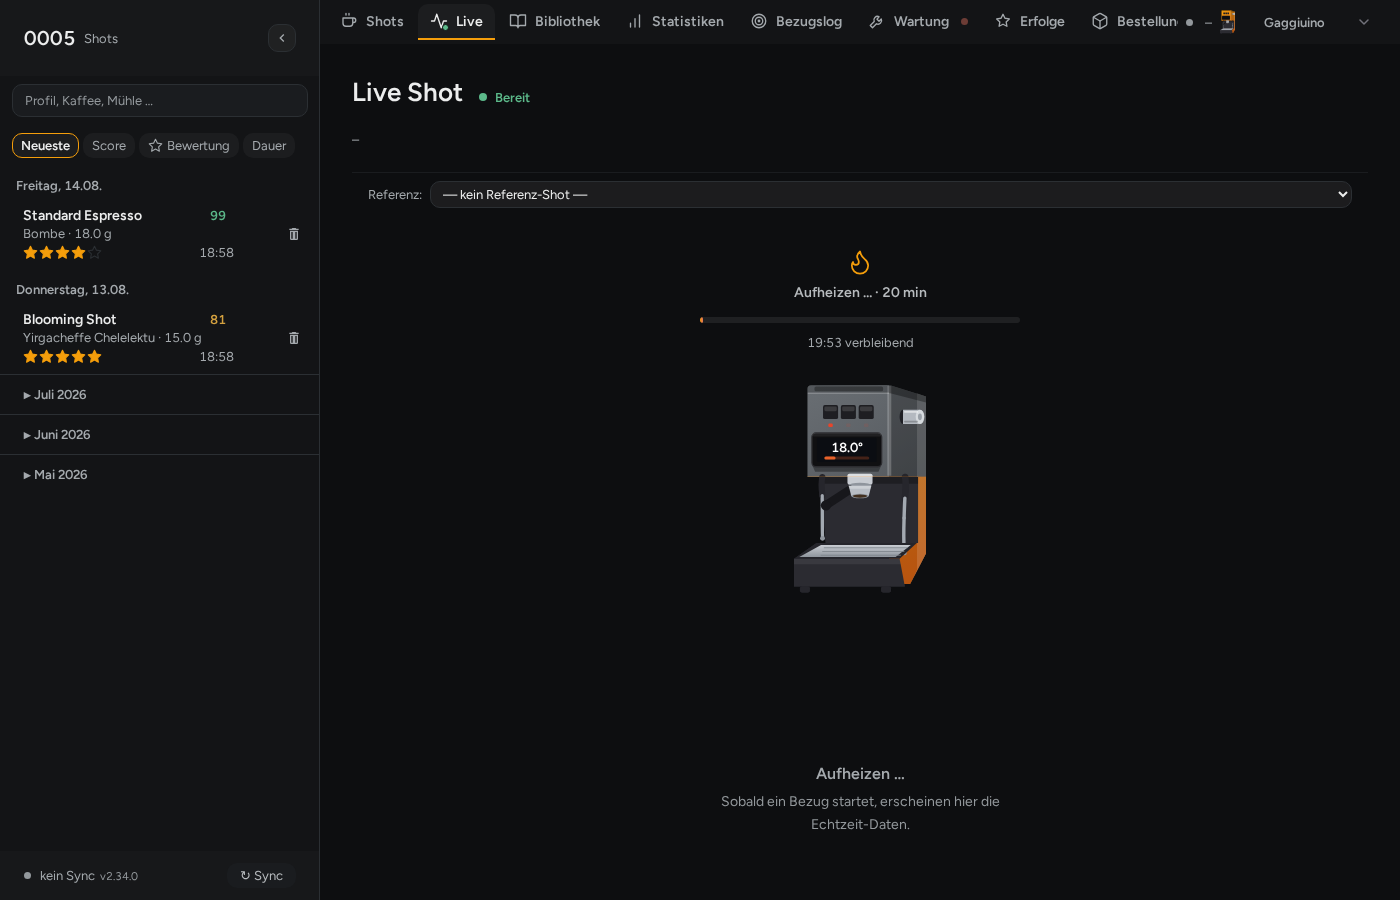
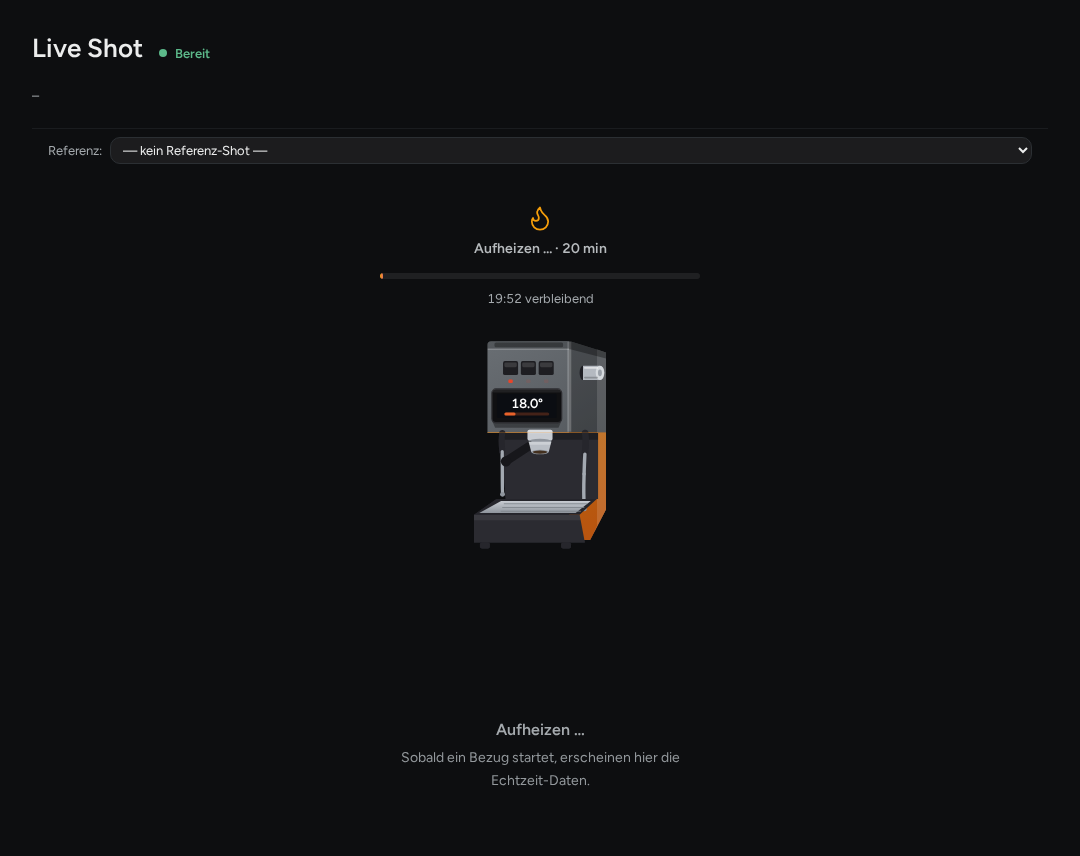
fix(docs): crop screenshots to view container instead of full viewport (#836)
scripts/screenshots.mjs captured the full 1400x900 viewport for every
doc screenshot, including the shared top nav bar repeated across all
9 images. Now scoped to page.locator('#<tab>-view').screenshot(...),
matching the pattern glp-lovelace-card/glp-order-card already use —
cuts the redundant nav chrome and reduces file size ~35-40% on average
with no loss of documented content.

Closes #835

diff --git a/gaggiuino-local-profiler/CHANGELOG.md b/gaggiuino-local-profiler/CHANGELOG.md
@@ -1,6 +1,7 @@
 ## [Unreleased]
 
 ### Fixed
+- **Doc screenshots captured the full page instead of just the relevant view.** `scripts/screenshots.mjs` now crops each capture to its view container, cutting the repeated top nav bar out of the generated images. Closes #835
 - **GitHub-only CI workflows (build, CodeQL, dependency review, scorecard, dev-image publish, release-drift check) no longer auto-run against the local Gitea mirror.** Gitea Actions picks up `.github/workflows` automatically, so registering the local runner re-ran all of them there too — one accidental run already fired a real CodeQL job. Each now skips outside `github.com`; the `test.yaml` lint/test gate is unaffected and runs on both. Closes #834
 
 ### Added
